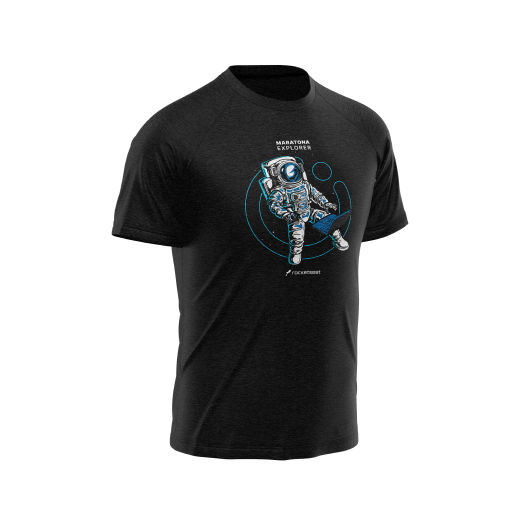
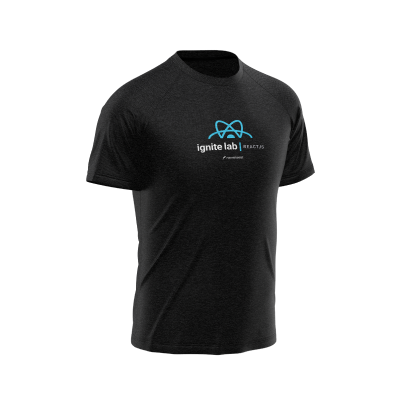
✨ feat:Config Setup Stripe

Changed region(s): [[0.4489, 0.2693, 0.6883, 0.5387]]

diff --git a/src/pages/index.tsx b/src/pages/index.tsx
@@ -6,11 +6,13 @@ import { HomeContainer, Product } from "../styles/pages/home"
 import shirt1 from '../../public/assets/shirt/shirt1.png'
 import shirt2 from '../../public/assets/shirt/shirt2.png'
 import shirt3 from '../../public/assets/shirt/shirt3.png'
+import shirt4 from '../../public/assets/shirt/shirt4.png'
 
 export default function Home() {
   const [sliderRef] = useKeenSlider({
     slides: {
       perView: 3,
+      spacing: 48,
     }
   })
 // ref={sliderRef} className="keen-slider"
@@ -48,7 +50,7 @@ export default function Home() {
     </Product>
 
     <Product className="keen-slider__slide">
-      <Image src={shirt3} alt="shirt01" width={520} height={480}/>
+      <Image src={shirt4} alt="shirt01" width={520} height={480}/>
 
       <footer>
         <strong>Camiseta X</strong>

diff --git a/src/styles/pages/home.ts b/src/styles/pages/home.ts
@@ -2,8 +2,8 @@ import { styled } from "..";
 
 export const HomeContainer = styled('main', {
   display: 'flex',
-//   gap: '3rem',
-  width: '100%',
+  // gap: '3rem',
+ width: '100%',
   maxWidth: 'calc(100vw - ((100vw - 1180px) / 2))',
   marginLeft: 'auto',
   minHeight: 656
